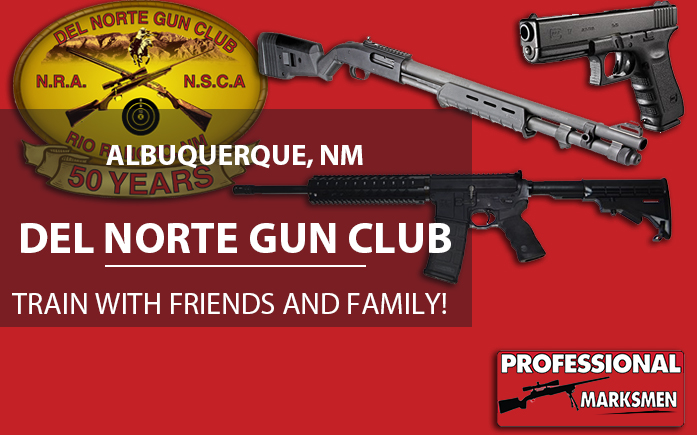
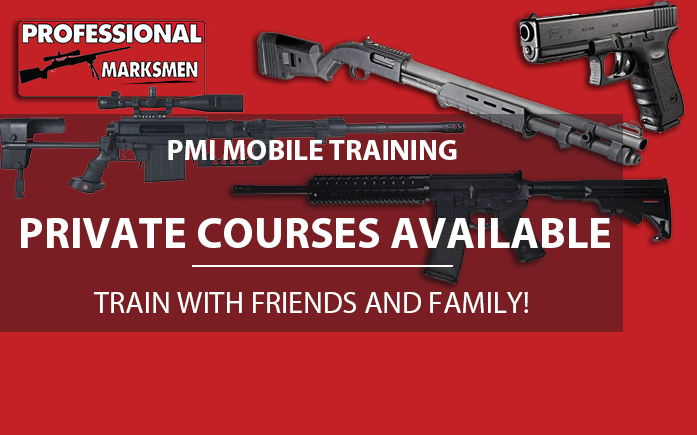
update sidebar

diff --git a/_includes/sidebar.html b/_includes/sidebar.html
@@ -17,7 +17,7 @@
 <div class="border-dotted radius b30">
 		<a href="https://store.professionalmarksmen.com/index.php?l=product_list&c=5" target="_blank"><img src="http://professionalmarksmen.com/images/slider-1.jpg" alt="Del Norte Gun Club">
 		<p class="text-left">
-			<center>Click here to train with us at Del Norte Gun Club - Albuquerque, NM!</center></a>
+			<center>Click here to schedule a PMI Mobile Training Course!</center></a>
 		</p>
 	</div>
 
